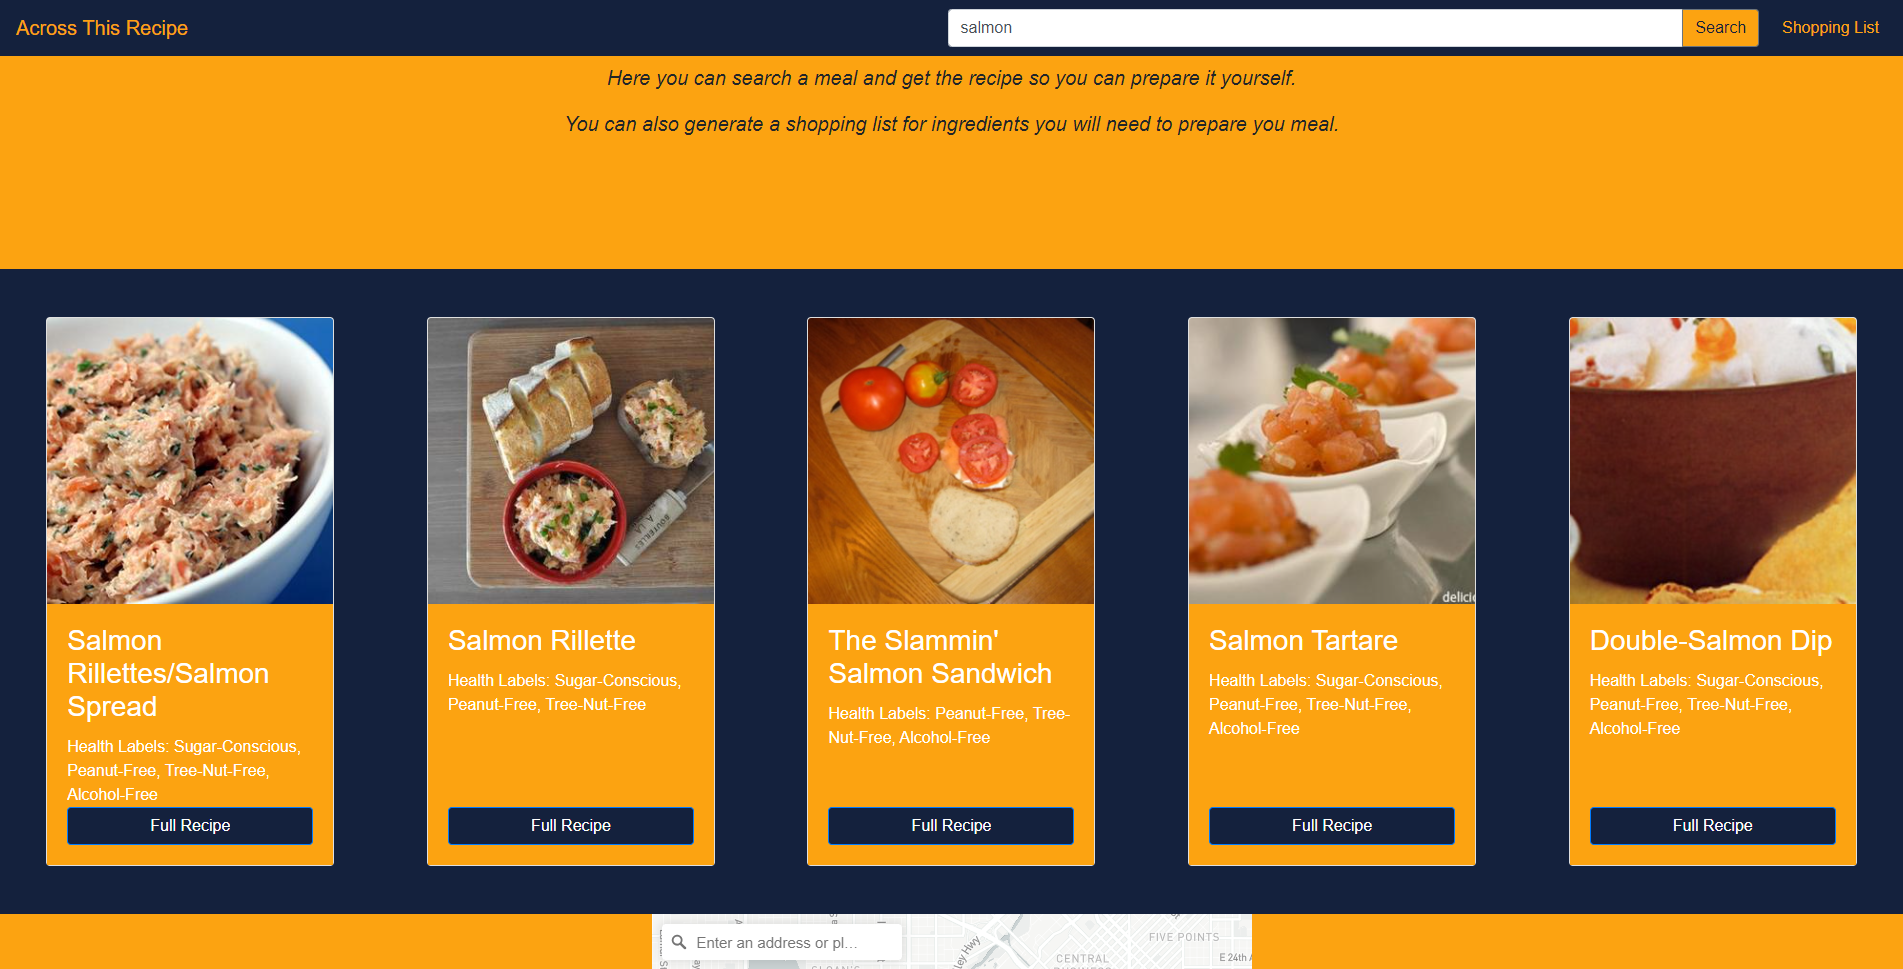
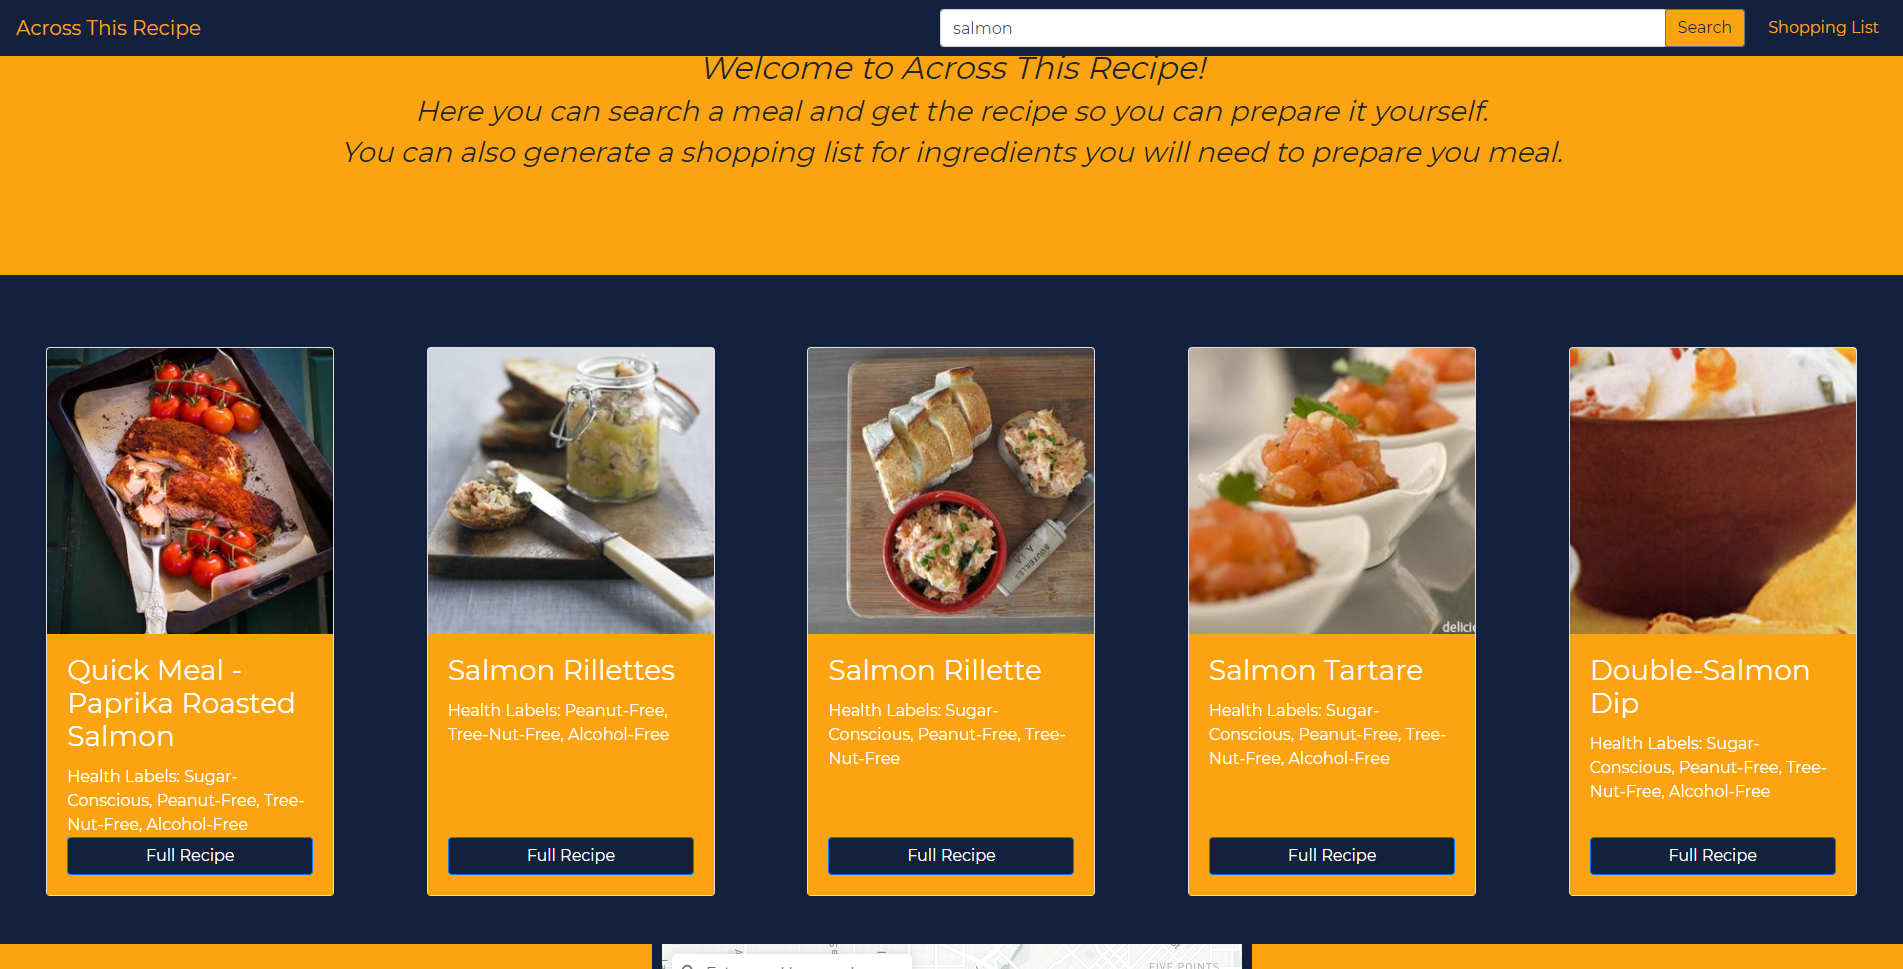
final changes to read.me

diff --git a/index.html b/index.html
@@ -101,10 +101,11 @@
                 <input type="text" class="form-control search1" placeholder="Search Recipe" aria label="Recipient's username" aria-describedby="basic-addon2" id="searchInput1">
                 <button class="btn btn-outline-secondary cp-bg-blue cp-text-gold search1" type="button" id="search1" onclick="">Search</button>
                 
-                
+                <div class="hide">
                 <h2>Welcome to Across This Recipe!</h2>
                 <h3>Here you can search a meal and get the recipe so you can prepare it yourself.</h3>
                 <h3>You can also generate a shopping list for ingredients you will need to prepare you meal.</h3>
+                </div>
             </div>
 
             

diff --git a/css/project.css b/css/project.css
@@ -106,14 +106,26 @@
         margin-top: 72px !important;
     }
 
+    .hide{
+        display:none;
+    }
+
+    .light2{
+        height: 125px !important;
+    }
+
 
 }
 
-    @media only screen and (min-width: 800px) and (max-width: 2000px) {
+    @media only screen and (min-width: 760px) and (max-width: 2000px) {
         .search1{
             display: none;
             padding-top: 10px;
         }
+        .light2{
+            height: 250px !important;
+        }
+
     }
     .lobster{
     font-family: 'Montserrat', sans-serif;
